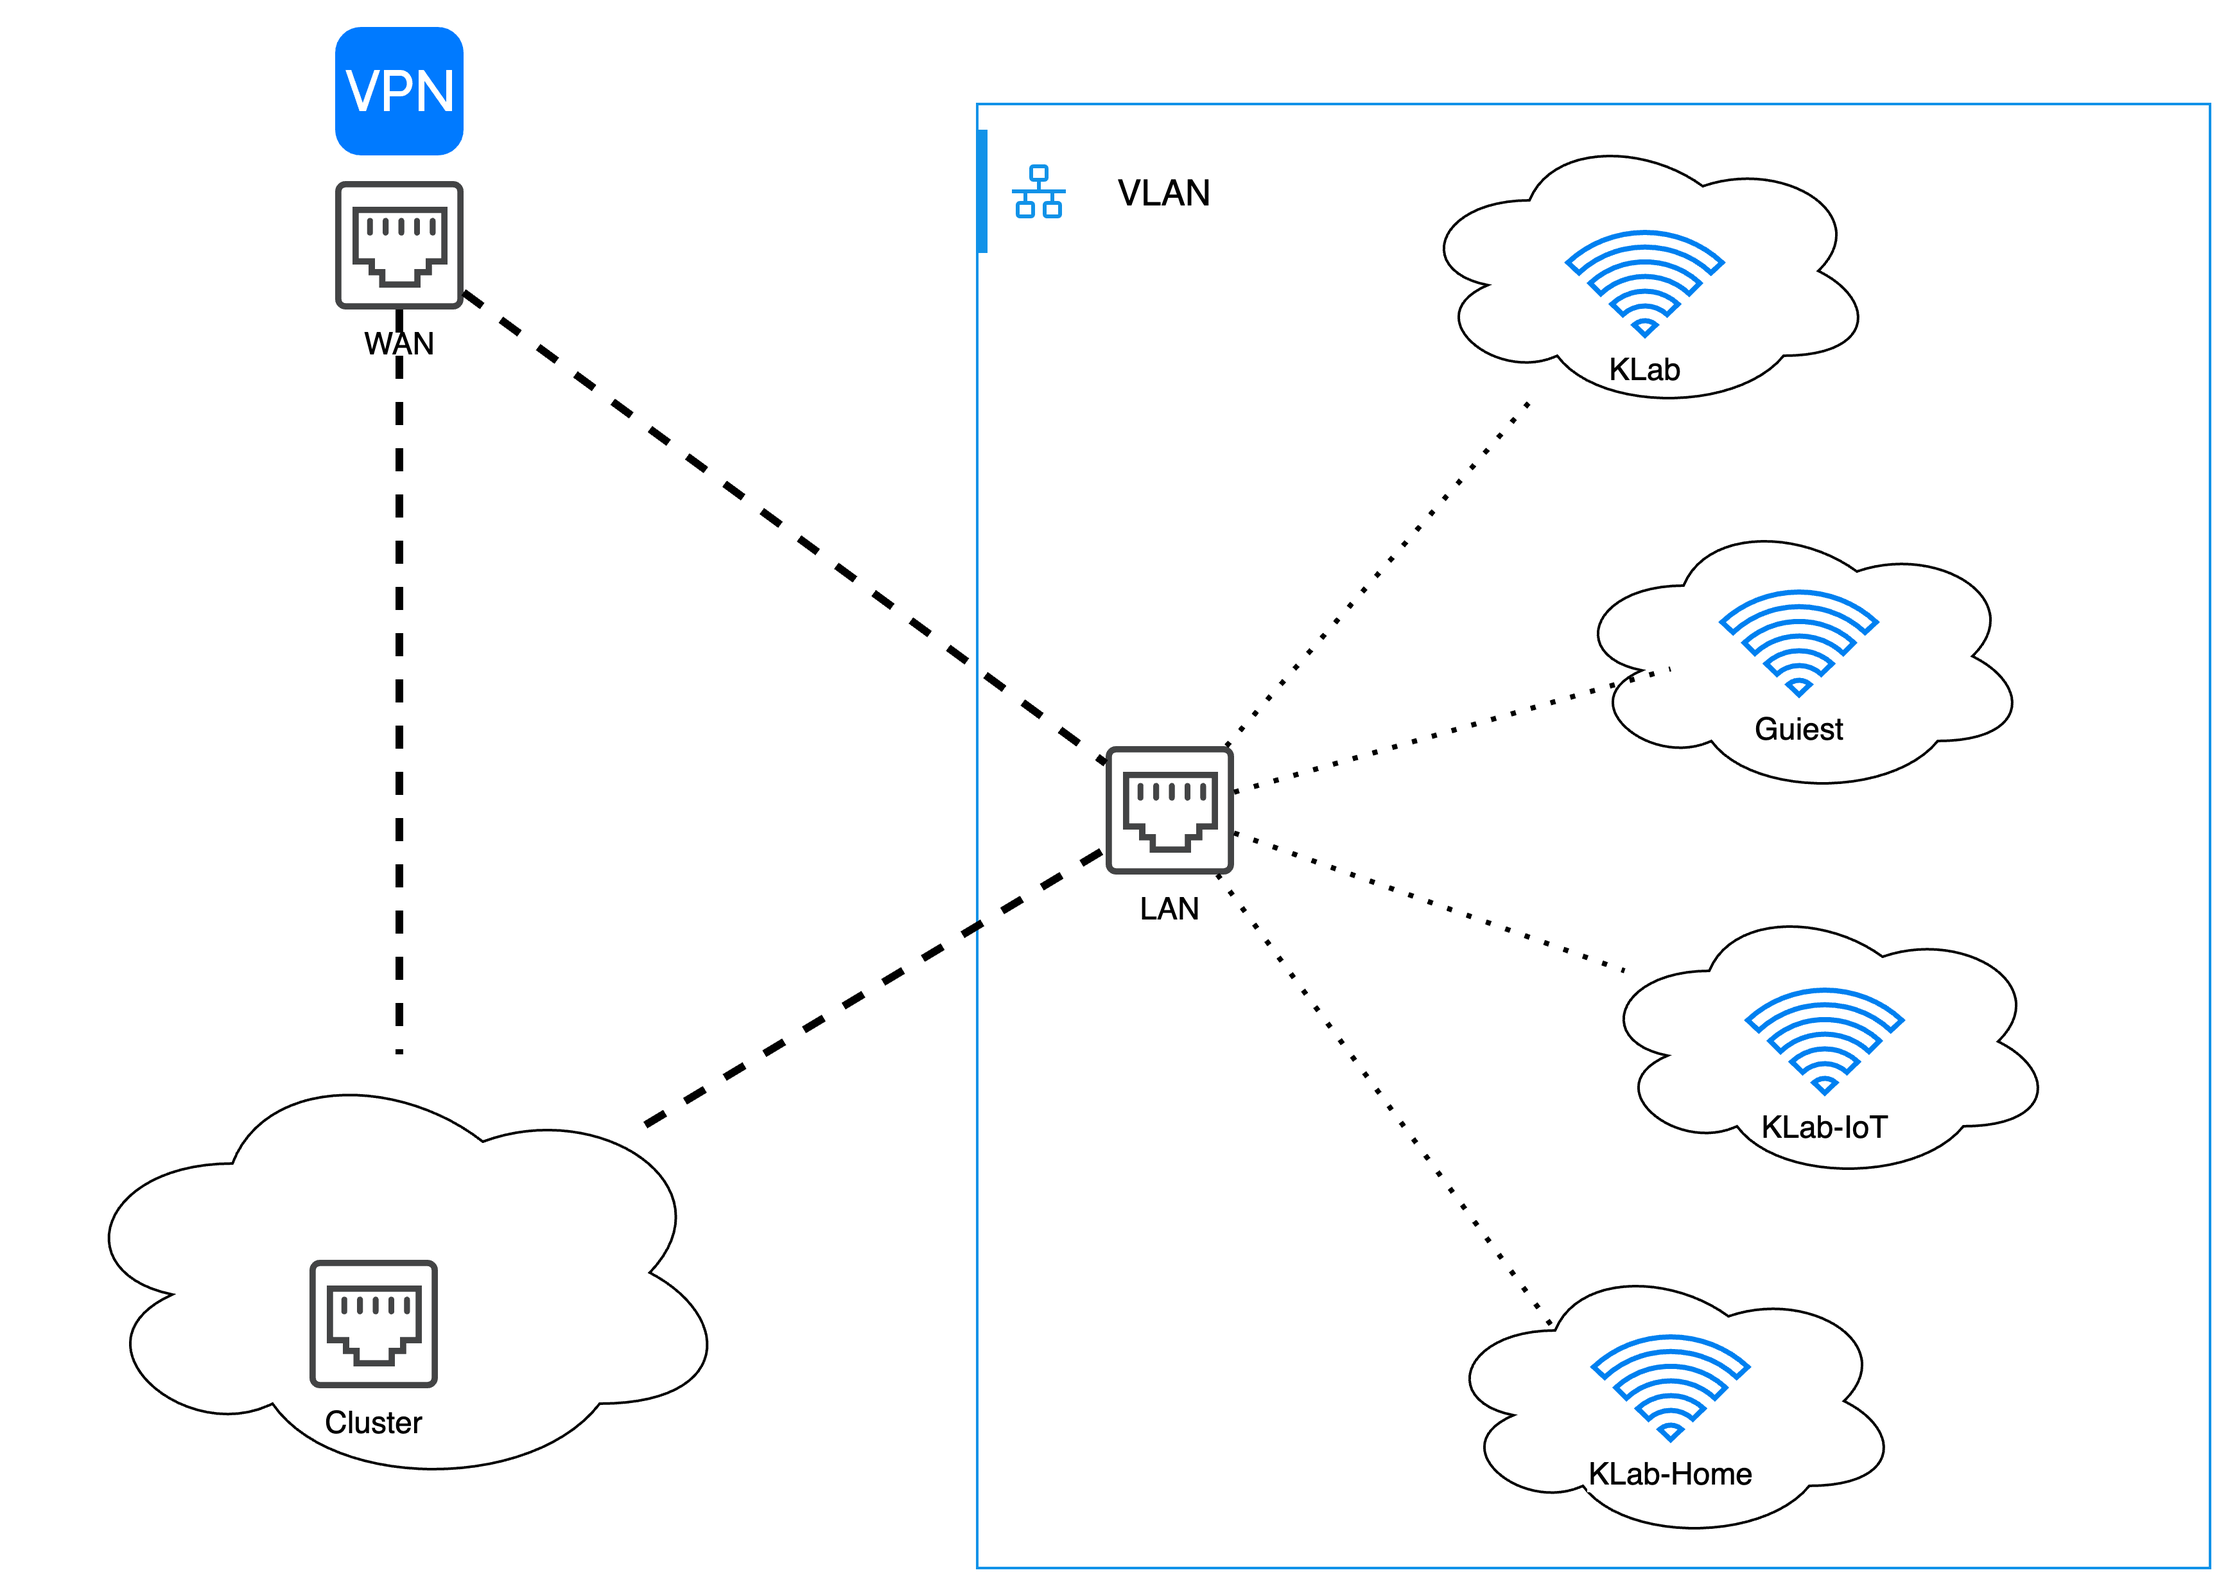
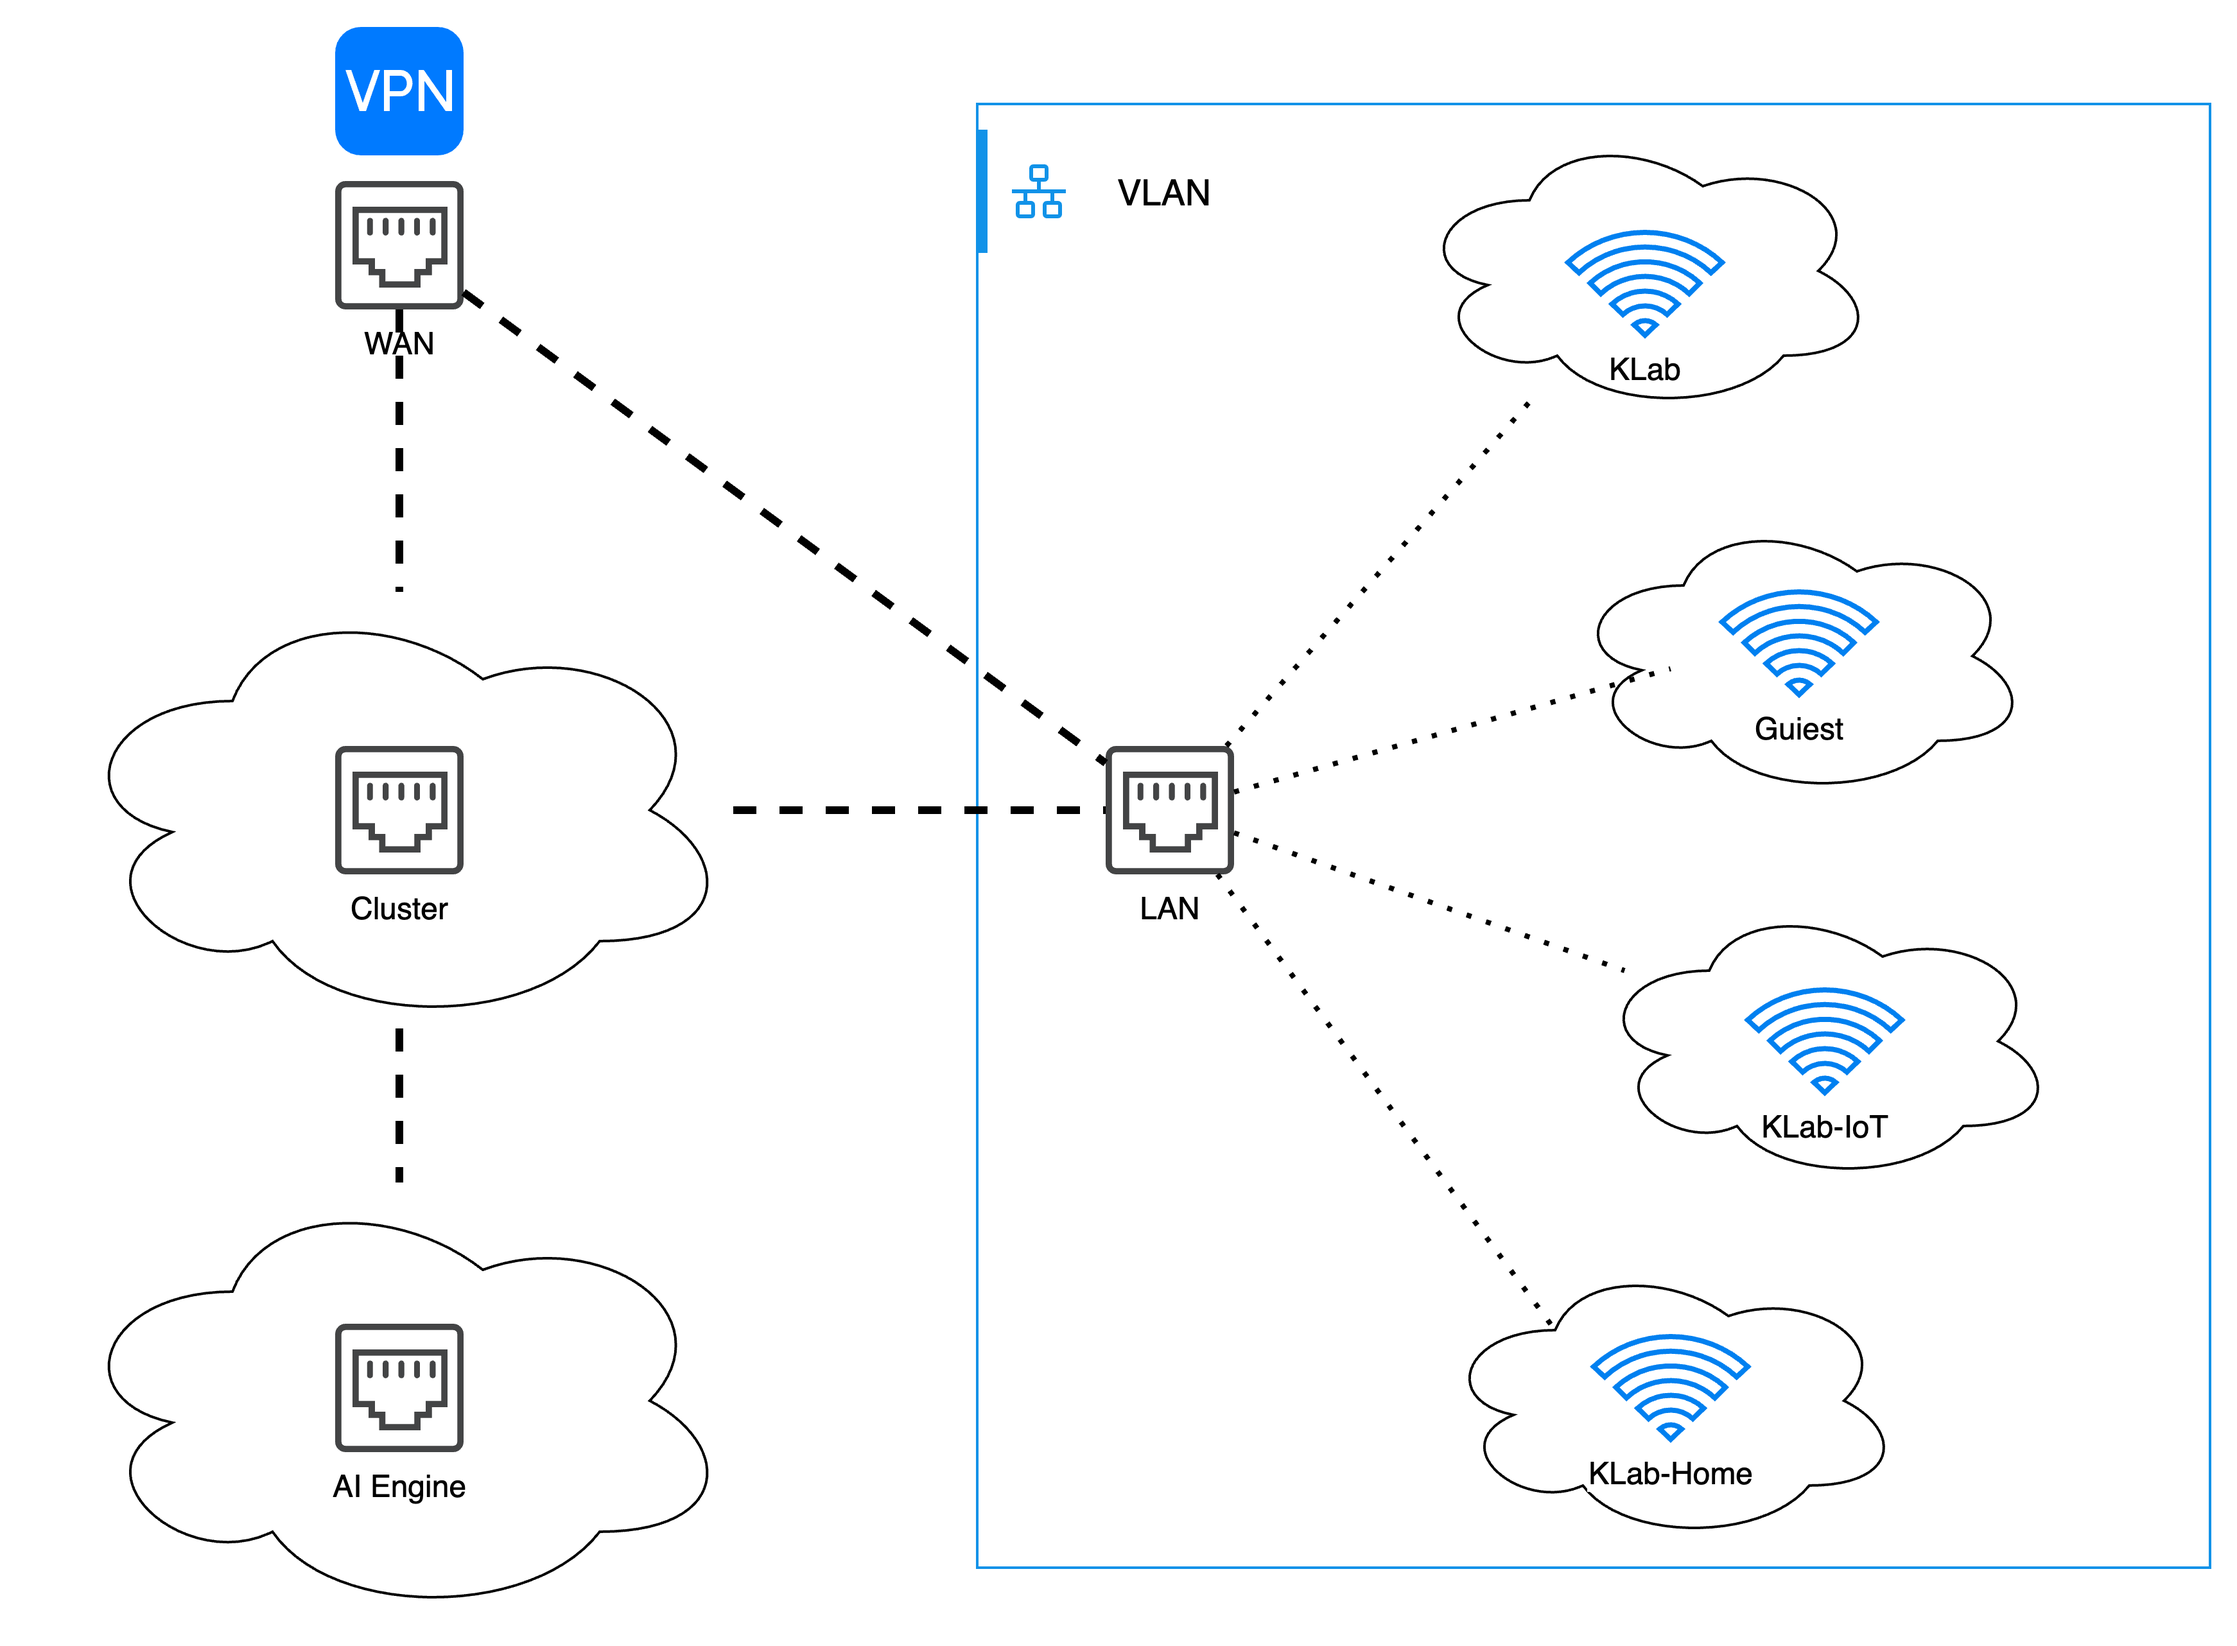
add pics for levels

diff --git a/README.md b/README.md
@@ -11,5 +11,14 @@ KLab environment initialization
 
 ![Intranet schema](./img/intranet.png)
 
+## Physical level
+
+![Physical level](./img/physical-level.png)
+
+## Logical level
+
+![Logical level](./img/logical-level.png)
+
 # TODO 
 add description for the project
+![img.png](img/logical-level.png)
